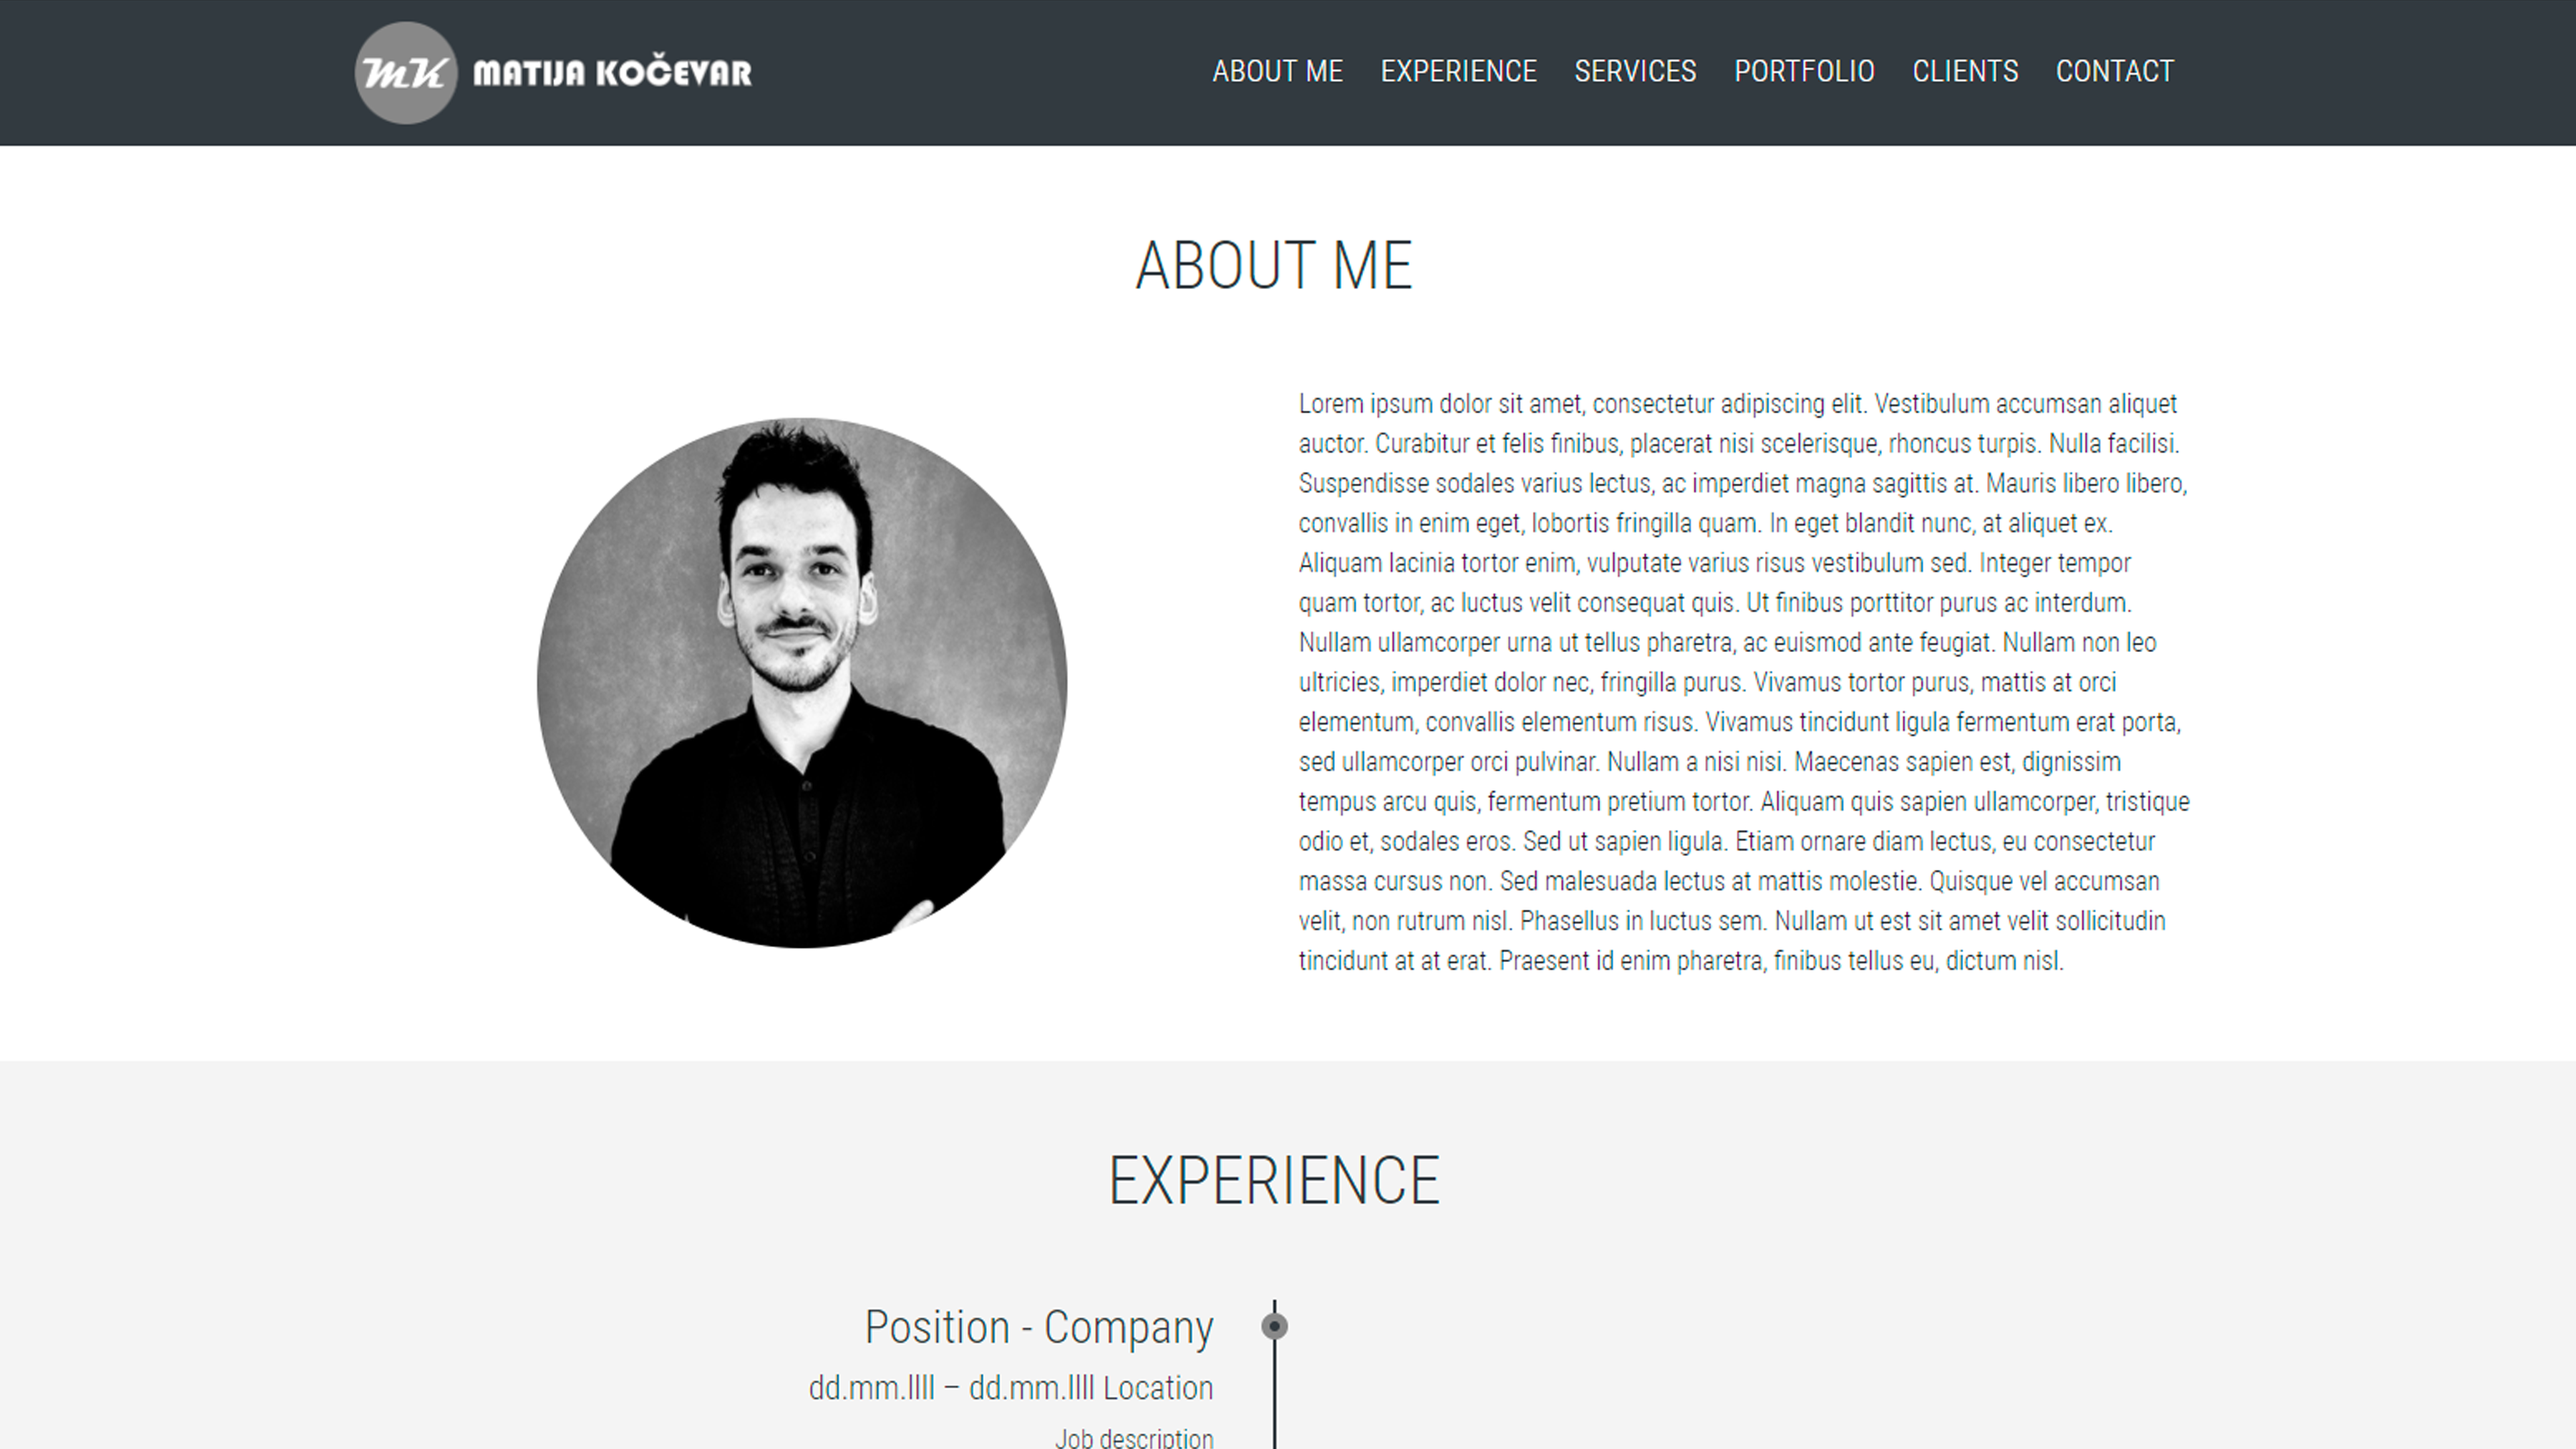
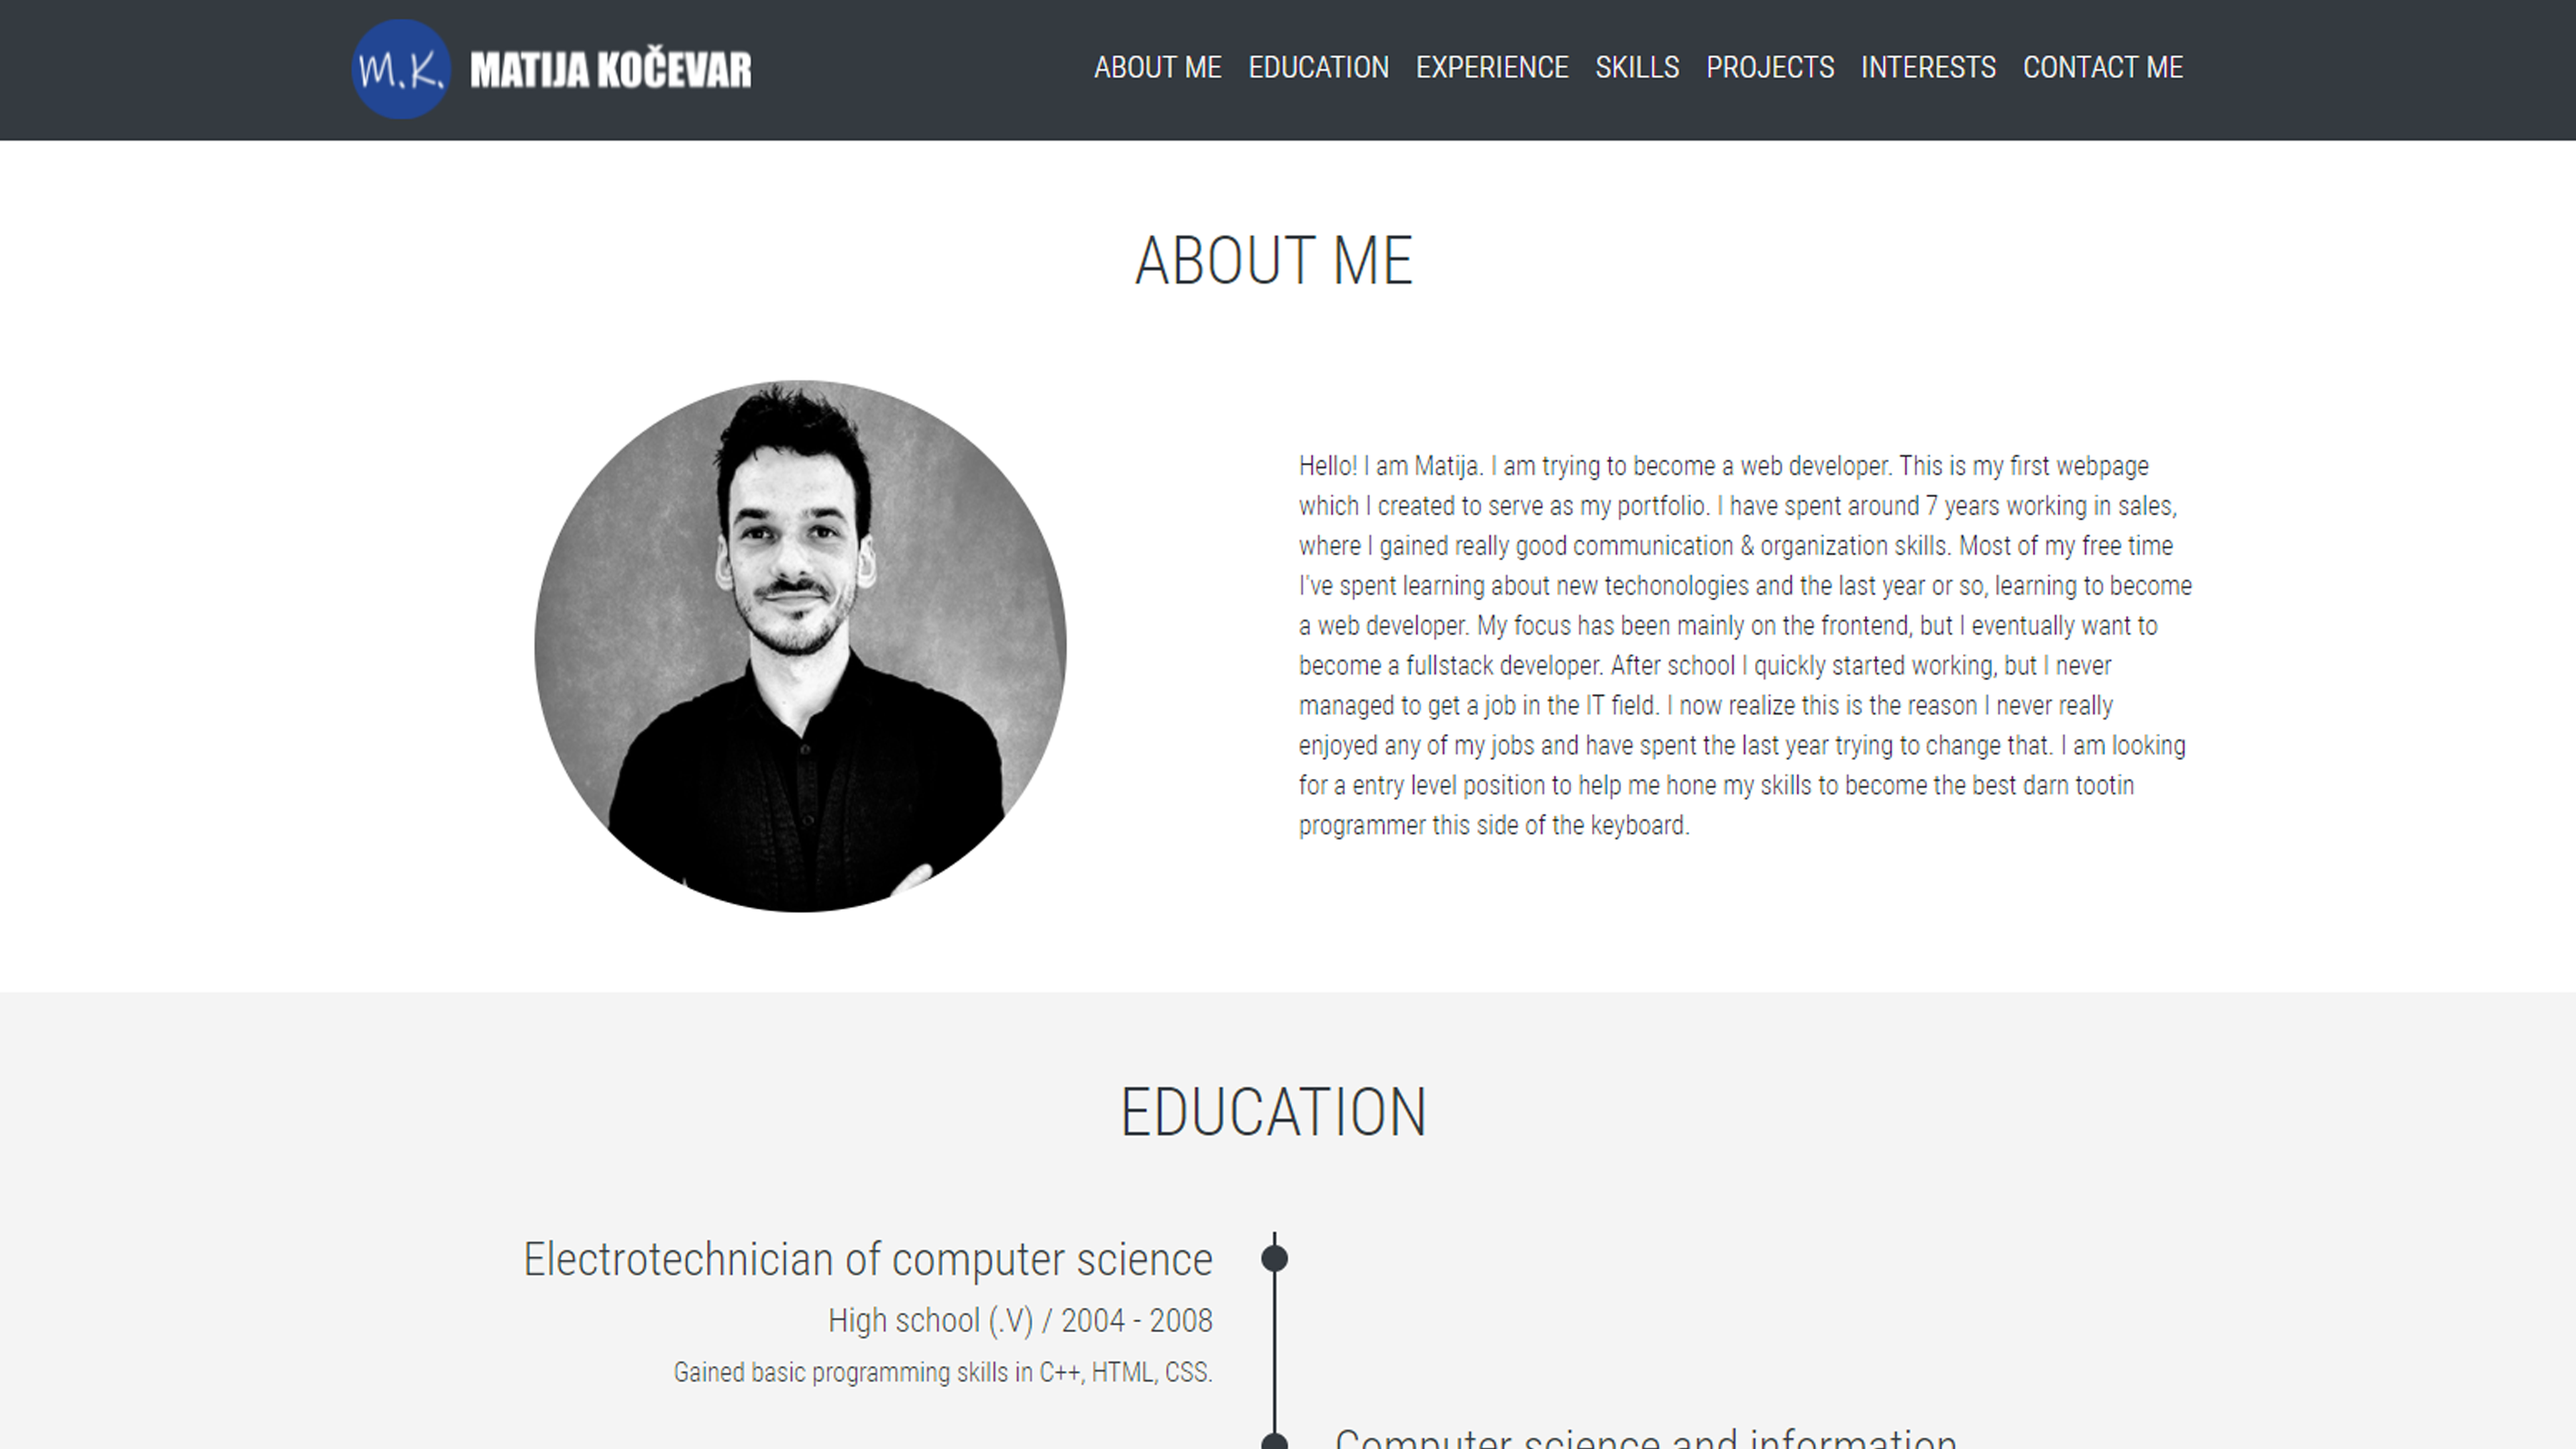
Fixes and navbar optimization

diff --git a/src/components/navbar.jsx b/src/components/navbar.jsx
@@ -5,11 +5,47 @@ import { faBars } from "@fortawesome/free-solid-svg-icons";
 import { Link } from "react-scroll";
 
 const NavBar = () => {
-  let startingOffset = window.innerWidth < 768 ? -63 : window.innerWidth < 992 ? -67 : -88;
+  let startingOffset =
+    window.innerWidth < 768
+      ? -61
+      : window.innerWidth < 991
+      ? -61
+      : window.innerWidth < 1199
+      ? -61
+      : -86;
+
+  let startingToggle =
+    window.innerWidth < 768
+      ? "collapse"
+      : window.innerWidth < 991
+      ? "collapse"
+      : window.innerWidth < 1199
+      ? "keep"
+      : "keep";
+
   const [offset, setOffset] = useState(startingOffset);
 
+  const [toggle, setToggle] = useState(startingToggle);
+
   window.addEventListener("resize", () => {
-    setOffset(window.innerWidth < 768 ? -63 : window.innerWidth < 992 ? -67 : -88);
+    setOffset(
+      window.innerWidth < 768
+        ? -61
+        : window.innerWidth < 991
+        ? -61
+        : window.innerWidth < 1199
+        ? -61
+        : -86
+    );
+    setToggle(
+      window.innerWidth < 768
+        ? "collapse"
+        : window.innerWidth < 991
+        ? "collapse"
+        : window.innerWidth < 1199
+        ? "keep"
+        : "keep"
+    );
   });
 
   return (
@@ -32,7 +68,7 @@ const NavBar = () => {
           </button>
           <div className="collapse navbar-collapse" id="navbarNav">
             <ul className="navbar-nav ml-auto">
-              <li className="nav-item">
+              <li className="nav-item active">
                 <Link
                   smooth={true}
                   to="about-me"
@@ -40,6 +76,8 @@ const NavBar = () => {
                   ignoreCancelEvents={true}
                   className="nav-link"
                   href="#"
+                  data-bs-toggle={toggle}
+                  data-bs-target="#navbarNav"
                 >
                   about me
                 </Link>
@@ -53,6 +91,8 @@ const NavBar = () => {
                   ignoreCancelEvents={true}
                   className="nav-link"
                   href="#"
+                  data-bs-toggle={toggle}
+                  data-bs-target="#navbarNav"
                 >
                   education
                 </Link>
@@ -66,6 +106,8 @@ const NavBar = () => {
                   ignoreCancelEvents={true}
                   className="nav-link"
                   href="#"
+                  data-bs-toggle={toggle}
+                  data-bs-target="#navbarNav"
                 >
                   experience
                 </Link>
@@ -79,6 +121,8 @@ const NavBar = () => {
                   ignoreCancelEvents={true}
                   className="nav-link"
                   href="#"
+                  data-bs-toggle={toggle}
+                  data-bs-target="#navbarNav"
                 >
                   skills
                 </Link>
@@ -92,8 +136,10 @@ const NavBar = () => {
                   ignoreCancelEvents={true}
                   className="nav-link"
                   href="#"
+                  data-bs-toggle={toggle}
+                  data-bs-target="#navbarNav"
                 >
-                  portfolio
+                  projects
                 </Link>
               </li>
               {/* - */}
@@ -105,8 +151,25 @@ const NavBar = () => {
                   ignoreCancelEvents={true}
                   className="nav-link"
                   href="#"
+                  data-bs-toggle={toggle}
+                  data-bs-target="#navbarNav"
                 >
                   interests
+                </Link>
+              </li>
+              {/* - */}
+              <li className="nav-item">
+                <Link
+                  smooth={true}
+                  to="contacts"
+                  offset={offset}
+                  ignoreCancelEvents={true}
+                  className="nav-link"
+                  href="#"
+                  data-bs-toggle={toggle}
+                  data-bs-target="#navbarNav"
+                >
+                  contact me
                 </Link>
               </li>
             </ul>

diff --git a/src/components/footer.jsx b/src/components/footer.jsx
@@ -34,8 +34,14 @@ const Footer = () => {
           <div className="col-lg-4 col-md-6 text-center">
             <div className="row">
               <div className="col">
-                <Link smooth={true} to="about-me" offset={offset} ignoreCancelEvents={true} href="#">
-                About Me
+                <Link
+                  smooth={true}
+                  to="about-me"
+                  offset={offset}
+                  ignoreCancelEvents={true}
+                  href="#"
+                >
+                  About Me
                 </Link>
                 <br />
                 <Link
@@ -59,7 +65,13 @@ const Footer = () => {
                 </Link>
               </div>
               <div className="col">
-                <Link smooth={true} to="services" offset={offset} ignoreCancelEvents={true} href="#">
+                <Link
+                  smooth={true}
+                  to="services"
+                  offset={offset}
+                  ignoreCancelEvents={true}
+                  href="#"
+                >
                   Skills
                 </Link>
                 <br />
@@ -70,7 +82,7 @@ const Footer = () => {
                   ignoreCancelEvents={true}
                   href="#"
                 >
-                  Portfolio
+                  Projects
                 </Link>
                 <br />
                 <Link

diff --git a/src/components/aboutMe.jsx b/src/components/aboutMe.jsx
@@ -13,8 +13,16 @@ const AboutMe = () => {
         </div>
         <div className="col-lg-6 col-xm-12">
           <p>
-          Hello! I am Matija. I am trying to become a junior developer. This is my first webpage which I created to serve as my developers resume.
-          
+            Hello! I am Matija. I am trying to become a web developer. This is my first webpage
+            which I created to serve as my portfolio. I have spent around 7 years working in sales,
+            where I gained really good communication & organization skills. Most of my free time
+            I've spent learning about new techonologies and the last year or so, learning to become
+            a web developer. My focus has been mainly on the frontend, but I eventually want to
+            become a fullstack developer. After school I quickly started working, but I never
+            managed to get a job in the IT field. I now realize this is the reason I never really
+            enjoyed any of my jobs and have spent the last year trying to change that. I am looking
+            for a entry level position to help me hone my skills to become the best darn tootin
+            programmer this side of the keyboard.
           </p>
         </div>
       </div>

diff --git a/src/components/header.jsx b/src/components/header.jsx
@@ -3,17 +3,32 @@ import Typed from "react-typed";
 import { Link } from "react-scroll";
 
 const Header = () => {
-  let startingOffset = window.innerWidth < 768 ? -63 : window.innerWidth < 992 ? -67 : -88;
+  let startingOffset =
+    window.innerWidth < 768
+      ? -61
+      : window.innerWidth < 991
+      ? -61
+      : window.innerWidth < 1199
+      ? -61
+      : -86;
   const [offset, setOffset] = useState(startingOffset);
 
   window.addEventListener("resize", () => {
-    setOffset(window.innerWidth < 768 ? -63 : window.innerWidth < 992 ? -67 : -88);
+    setOffset(
+      window.innerWidth < 768
+        ? -61
+        : window.innerWidth < 991
+        ? -61
+        : window.innerWidth < 1199
+        ? -61
+        : -86
+    );
   });
 
   return (
     <div id="home" className="header-wraper">
       <div className="main-info">
-        <h1>ONLINE RESUME</h1>
+        <h1>portfolio</h1>
         <Typed
           className="typed-text"
           strings={["Creative", "Hard working", "Positive"]}

diff --git a/src/components/styles/navbar.css b/src/components/styles/navbar.css
@@ -17,11 +17,11 @@ nav .container {
 
 .logo {
   width: 15rem;
-  padding: 0.5rem;
+  /* padding: 0.5rem; */
 }
 
 nav a.nav-link {
-  letter-spacing: 0.0375rem;
+  letter-spacing: 0.02rem;
   font-weight: 500;
   cursor: pointer;
 }
@@ -32,14 +32,28 @@ nav ul li {
 }
 
 .navbar-nav > li > a {
-  margin-right: 0.2rem;
-  margin-left: 0.2rem;
+  /* margin-right: 0.2rem;
+  margin-left: 0.2rem; */
   color: var(--primary-white) !important;
   border-bottom: 0.1875rem solid var(--primary-darkSE);
 }
 
 .navbar-nav > li > a:hover {
   border-bottom: 0.1875rem solid var(--primary-blue);
+}
+
+@media (max-width: 1199px) {
+  .navbar-brand {
+    width: 10rem;
+  }
+  .logo {
+    width: 10rem;
+  }
+  nav a.nav-link {
+    margin-top: 0.25rem;
+    text-align: right;
+    font-size: 1rem;
+  }
 }
 
 @media (max-width: 991px) {

diff --git a/src/components/styles/services.css b/src/components/styles/services.css
@@ -50,17 +50,21 @@
 .services .box:hover {
   background: var(--primary-gray);
   border-bottom: 0.3125rem solid var(--primary-blue);
+  transition: 0.2s ease-in-out;
 }
 
 .services .box:hover .circle {
   background: var(--primary-blue);
+  transition: 0.2s ease-in-out;
 }
 
 .services .box:hover {
   color: var(--primary-white);
+  transition: 0.2s ease-in-out;
 }
 .services .box:hover h3 {
   color: var(--primary-white);
+  transition: 0.2s ease-in-out;
 }
 
 @media (max-width: 991px) {

diff --git a/src/components/styles/contacts.css b/src/components/styles/contacts.css
@@ -28,7 +28,7 @@
   background: none;
   resize: none;
   border: 0;
-  border-bottom: 0.125rem solid var(--primary-gray);
+  border-bottom: 0.125rem solid var(--primary-dark);
   border-radius: 0;
   color: var(--primary-dark);
   outline: 0 !important;
@@ -41,7 +41,7 @@
 .contacts textarea:focus {
   background: transparent;
   color: var(--primary-gray);
-  border-bottom: 0.125rem solid var(--primary-gray);
+  border-bottom: 0.125rem solid var(--primary-dark);
 }
 
 .contacts textarea {

diff --git a/src/components/portfolio.jsx b/src/components/portfolio.jsx
@@ -115,7 +115,7 @@ const Portfolio = () => {
   return (
     <div id="portfolio" className="portfolio-wrapper">
       <div className="container">
-        <h1 className="text-uppercase text-center">portfolio</h1>
+        <h1 className="text-uppercase text-center">projects</h1>
         <div className="image-box-wrapper row">
           <div className="col-lg-3 col-md-6 col-sm-6" onClick={openPopupboxProject1}>
             <div className="project-wrapper">

diff --git a/src/components/styles/portfolio.css b/src/components/styles/portfolio.css
@@ -17,6 +17,7 @@
 
 .project-wrapper:hover .portfolio-image {
   border: 0.5rem solid var(--primary-blue);
+  transition: 0.2s ease-in-out;
 }
 
 .portfolio-image {
@@ -49,6 +50,7 @@
 
 .project-wrapper:hover .portfolio-icon {
   color: var(--primary-blue);
+  transition: 0.2s ease-in-out;
 }
 
 .popupbox-wrapper {

diff --git a/src/components/styles/education.css b/src/components/styles/education.css
@@ -44,6 +44,7 @@
 .timeline-block:hover .edmarker {
   border: 0.325rem solid var(--primary-blue);
   background: var(--primary-blue);
+  transition: 0.2s ease-in-out;
 }
 
 .timeline-block-right {

diff --git a/src/components/styles/experience.css b/src/components/styles/experience.css
@@ -35,6 +35,7 @@
 .timeline-block:hover .marker {
   border: 0.325rem solid var(--primary-blue);
   background: var(--primary-blue);
+  transition: 0.2s ease-in-out;
 }
 
 .timeline-block {
